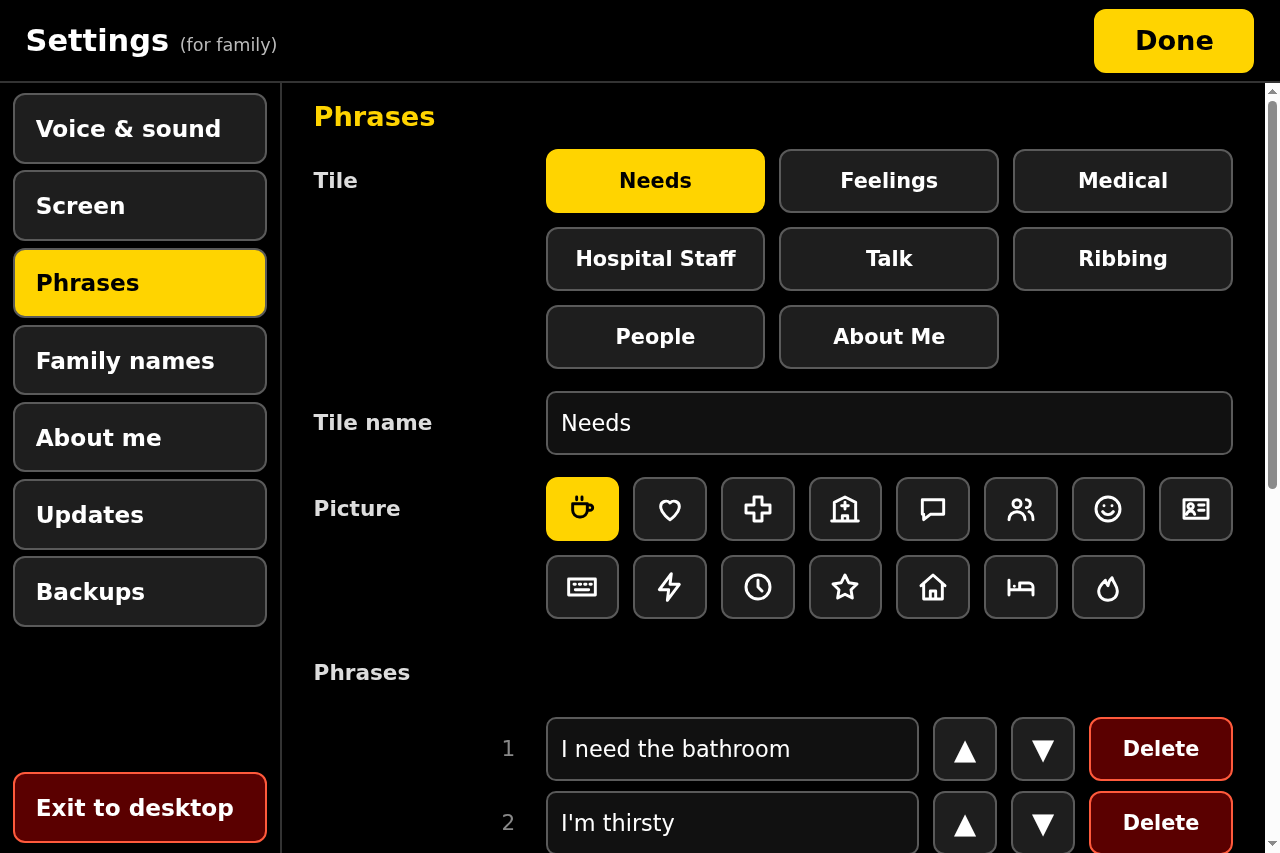
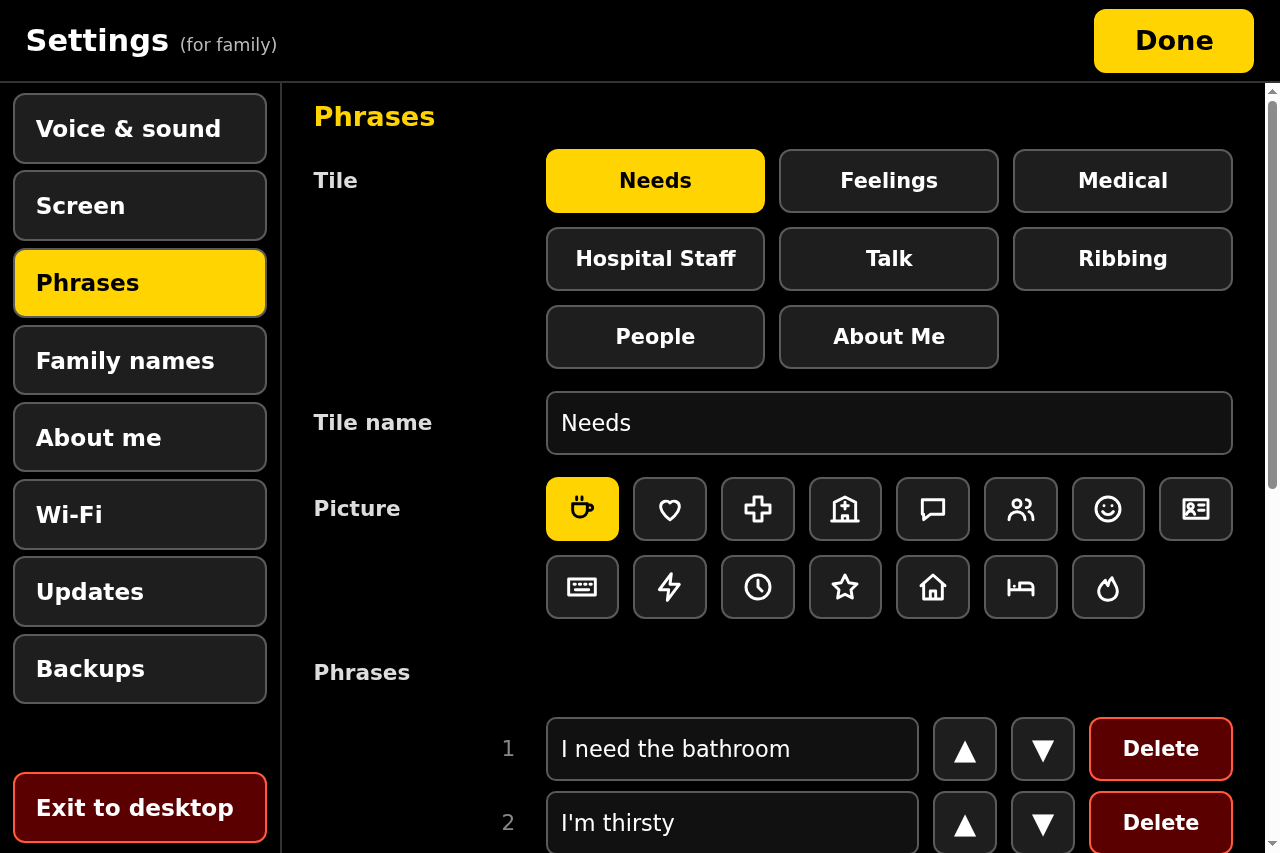
Wi-Fi in Settings: list networks (nmcli, one row per name, connected first), tap Connect, type the password on the settings keyboard (typed exactly, Shift key for capitals only in that box), plain-word errors; GET /wifi, POST /wifi/connect (local-only, ssid/password checked); tests with a fake nmcli

Changed region(s): [[0.0, 0.7315, 0.2188, 0.823], [0.0312, 0.5791, 0.125, 0.6401], [0.0312, 0.6706, 0.125, 0.7011]]

diff --git a/static/app.js b/static/app.js
@@ -10,6 +10,7 @@ let shown = "";           // the screen drawn last (to keep a list's scroll plac
 let painLevel = null;
 let kbMode = "abc";
 let skMode = "abc";
+let skShift = false;  // Shift on the settings keyboard, only shown for a Wi-Fi password
 let dict = [];              // starter words, most common first
 let dictRank = new Map();
 let audio = null;
@@ -258,12 +259,15 @@ const LAYOUTS = {
   abc: ["qwertyuiop", "asdfghjkl'", "zxcvbnm,"],
   "123": ["1234567890", "-/:;()$&@\"", "!#%+=*?_"],
 };
-function renderKeyboard(box, mode, onKey, onMode, withSpeak) {
+// shift: null, or { on, toggle } for a box where case matters (a Wi-Fi password)
+function renderKeyboard(box, mode, onKey, onMode, withSpeak, shift = null) {
   box.innerHTML = "";
   for (const row of LAYOUTS[mode]) {
     const r = document.createElement("div");
     r.className = "krow";
-    for (const ch of row) r.appendChild(key(ch, ch.toUpperCase(), onKey));
+    if (shift && mode === "abc" && row === LAYOUTS.abc[2]) r.appendChild(key(null, "⇧", shift.toggle, "wide" + (shift.on ? " on" : "")));
+    const up = shift && shift.on, low = shift && !shift.on; // no shift: keys show capitals, type small
+    for (const ch of row) r.appendChild(key(up ? ch.toUpperCase() : ch, low ? ch : ch.toUpperCase(), onKey));
     if (row === LAYOUTS[mode][2]) r.appendChild(key("BS", "⌫", onKey, "wide"));
     box.appendChild(r);
   }
@@ -537,7 +541,7 @@ function textInput(value, onInput, placeholder = "") {
   const i = el("input", { type: "text", inputmode: "none", placeholder });
   i.value = value;
   i.oninput = () => onInput(i.value);
-  i.onfocus = () => { settingsTarget = i; showSKeys(true); setTimeout(() => i.scrollIntoView({ block: "nearest" }), 50); };
+  i.onfocus = () => { settingsTarget = i; renderSKeys(); showSKeys(true); setTimeout(() => i.scrollIntoView({ block: "nearest" }), 50); };
   i.onblur = () => setTimeout(() => { if (!(document.activeElement && document.activeElement.matches("#sbody input[type=text]"))) showSKeys(false); }, 100);
   return i;
 }
@@ -547,7 +551,7 @@ function slug(name) { return name.toLowerCase().replace(/[^a-z0-9]+/g, "-") + "-
 // nerves): every button is 64 px high and one of three widths, every row has its label in the same
 // column and its controls starting at the same x, help text is always one muted line under its row.
 const TABS = [["voice", "Voice & sound"], ["screen", "Screen"], ["phrases", "Phrases"], ["family", "Family names"],
-  ["about", "About me"], ["updates", "Updates"], ["backups", "Backups"]];
+  ["about", "About me"], ["wifi", "Wi-Fi"], ["updates", "Updates"], ["backups", "Backups"]];
 let settingsTab = "voice";
 // a button of a fixed size: "s" square 64, "m" 200, "l" 300, "fill" = its grid cell
 function sbtn(text, onclick, size = "m", cls = "") {
@@ -655,6 +659,57 @@ const SECTIONS = {
     if (!about) { body.append(srow("", [], "The About Me tile was deleted. Add a tile under Phrases.")); return; }
     phraseEditor(body, about, "line", "Things he can say about himself (the About Me tile): his name, birthday, address.");
   },
+  wifi(body) {
+    const stat = el("div", { class: "shelp", text: "Looking for networks..." });
+    const list = el("div");
+    const look = sbtn("Look again", () => load(), "l");
+    const r = srow("Wi-Fi", [look]);
+    r.append(stat);
+    body.append(r, list);
+    const words = (n) => (n.signal >= 67 ? "Strong" : n.signal >= 40 ? "Good" : "Weak") + (n.secure ? ", locked" : ", open");
+    async function connect(n, password, row) {
+      stat.textContent = "Connecting to " + n.ssid + "...";
+      row.querySelectorAll("button").forEach((b) => (b.disabled = true));
+      try {
+        const res = await fetch("/wifi/connect", { method: "POST", headers: { "Content-Type": "application/json" }, body: JSON.stringify({ ssid: n.ssid, password }) });
+        const j = await res.json().catch(() => ({}));
+        if (!res.ok) throw new Error(j.error || "It did not connect.");
+        toast("Connected to " + n.ssid);
+        load();
+      } catch (e) {
+        stat.textContent = e.message;
+        row.querySelectorAll("button").forEach((b) => (b.disabled = false));
+      }
+    }
+    function pick(n, row) {
+      list.querySelectorAll(".wpass").forEach((x) => x.remove());
+      if (!n.secure) return connect(n, "", row);
+      let pw = "";
+      const i = textInput("", (v) => (pw = v), "Password");
+      i.dataset.raw = "1";
+      i.autocomplete = "off";
+      const p = srow("Password", [i, sbtn("Connect", () => connect(n, pw, p), "m", "speak")],
+        "Type it exactly: ⇧ makes capitals, 123 has numbers. Leave it empty if this network was used here before.");
+      p.classList.add("wpass");
+      row.after(p);
+      i.focus();
+    }
+    async function load() {
+      stat.textContent = "Looking for networks...";
+      list.innerHTML = "";
+      let j;
+      try { j = await (await fetch("/wifi")).json(); } catch (e) { j = { error: "VoiceBox could not ask for networks." }; }
+      if (j.error) { stat.textContent = j.error; return; }
+      const on = j.networks.find((n) => n.active);
+      stat.textContent = on ? "Connected to " + on.ssid + "." : j.networks.length ? "Not connected. Tap a network." : "No networks found. Tap Look again.";
+      for (const n of j.networks) {
+        const row = srow(n.ssid, [el("span", { class: "sval", text: words(n) })]);
+        row.querySelector(".ctl").append(n.active ? el("span", { class: "sval", text: "Connected" }) : sbtn("Connect", () => pick(n, row), "m"));
+        list.append(row);
+      }
+    }
+    load();
+  },
   updates(body) {
     const ver = el("span", { class: "sval", text: "..." }), when = el("span", { class: "sval", text: "..." });
     fetch("/version").then((r) => r.json()).then((v) => {
@@ -748,13 +803,15 @@ function phraseEditor(body, cat, what, help) {
   }, "fill", "speak"))));
 }
 function renderSKeys() {
+  const raw = settingsTarget && settingsTarget.dataset.raw; // typed exactly as keyed, with a Shift key
   renderKeyboard($("#skeys"), skMode, (k) => {
     const i = settingsTarget;
     if (!i || !document.body.contains(i)) { toast("Tap a box first"); return; }
     if (k === "BS") i.value = i.value.slice(0, -1);
+    else if (raw) i.value += k;
     else i.value += /(^|[.?!] )$/.test(i.value) ? k.toUpperCase() : k; // names and phrases start with a capital
     i.dispatchEvent(new Event("input"));
-  }, (m) => { skMode = m; renderSKeys(); });
+  }, (m) => { skMode = m; renderSKeys(); }, false, raw ? { on: skShift, toggle: () => { skShift = !skShift; renderSKeys(); } } : null);
   // keep focus on the input so the on-screen keys don't steal it
   $("#skeys").onpointerdown = (e) => e.preventDefault();
 }

diff --git a/tests/ui_test.js b/tests/ui_test.js
@@ -209,7 +209,7 @@ const SHOTS = path.join(__dirname, "..", "screenshots");
     await page.waitForSelector('#sbody button.on.voice:has(span:text-is("Ryan"))'); // friendly voice names, Ryan until the family picks
     // one section at a time, tabs on the left, Done always there, the keyboard only while typing
     const tabs = await page.$$eval("#snav button", (b) => b.map((x) => x.textContent));
-    assert.deepStrictEqual(tabs, ["Voice & sound", "Screen", "Phrases", "Family names", "About me", "Updates", "Backups", "Exit to desktop"]);
+    assert.deepStrictEqual(tabs, ["Voice & sound", "Screen", "Phrases", "Family names", "About me", "Wi-Fi", "Updates", "Backups", "Exit to desktop"]);
     assert(await page.isHidden("#skeys"), "keyboard shown with no text box in use");
     const sfits = async (where) => {
       const bad = await page.evaluate(() => [...document.querySelectorAll("#settings button")].filter((e) => {
@@ -242,6 +242,12 @@ const SHOTS = path.join(__dirname, "..", "screenshots");
     await tab("Phrases", "c");
     await tab("Family names", "d");
     await tab("About me", "e");
+    // Wi-Fi (nmcli answers faked; the server side is in test_server.py)
+    await page.route("**/wifi", (r) => r.fulfill({ status: 200, contentType: "application/json", body: JSON.stringify({ networks: [
+      { ssid: "Home Net", signal: 72, secure: true, active: true },
+      { ssid: "Neighbors 5G", signal: 35, secure: true, active: false },
+      { ssid: "Cafe", signal: 90, secure: false, active: false }] }) }));
+    await tab("Wi-Fi", "ew");
     await tab("Updates", "f");
     await tab("Backups", "g");
     await tab("Exit to desktop", "h");
@@ -256,6 +262,28 @@ const SHOTS = path.join(__dirname, "..", "screenshots");
     await page.click("#sbody button.install");
     await page.waitForFunction(() => document.querySelector("#ustat").textContent.includes("Nothing was changed"));
     await page.unroute("**/update/check"); await page.unroute("**/update/install");
+    // Wi-Fi password: typed exactly (no automatic capital), Shift for capitals, a plain failure message
+    let sent = null;
+    await page.route("**/wifi/connect", (r) => { sent = r.request().postDataJSON(); return fake(502, { error: "Wrong password, or this network needs one." })(r); });
+    await page.click('#snav button:text-is("Wi-Fi")');
+    await page.click('#sbody .srow:has(.slabel:text-is("Neighbors 5G")) button:text-is("Connect")');
+    await page.waitForSelector("#skeys:not([hidden])");
+    await page.click('#skeys button:text-is("a")');
+    await page.click('#skeys button:text-is("⇧")');
+    await page.click('#skeys button:text-is("B")');
+    await page.click('#skeys button:text-is("123")');
+    await page.click('#skeys button:text-is("1")');
+    await page.click('#skeys button:text-is("ABC")');
+    assert.strictEqual(await page.inputValue('#sbody input[placeholder="Password"]'), "aB1");
+    await sfits("Wi-Fi password");
+    await shot("9ex-settings-wifi-password");
+    await page.click('#sbody .wpass button:text-is("Connect")');
+    await page.waitForFunction(() => document.querySelector("#sbody .shelp").textContent.includes("Wrong password"));
+    assert.deepStrictEqual(sent, { ssid: "Neighbors 5G", password: "aB1" });
+    await page.click('#snav button:text-is("Family names")'); // the Shift key is only for the password
+    await page.click('#sbody input[placeholder="Type a name"]');
+    assert.strictEqual(await page.locator('#skeys button:text-is("⇧")').count(), 0);
+    await page.unroute("**/wifi"); await page.unroute("**/wifi/connect");
     const name = w === 1280 ? "Mike" : "Anna";
     await page.click('#snav button:text-is("Family names")');
     await page.click('#sbody input[placeholder="Type a name"]');

diff --git a/static/style.css b/static/style.css
@@ -134,6 +134,7 @@ svg.icon { width: 1em; height: 1em; fill: none; stroke: currentColor; stroke-wid
 #skeys { flex: 0 0 34vh; height: 34vh; padding: var(--gap); border-top: 3px solid var(--accent); }
 #skeys[hidden] { display: none; }
 #skeys button { font-size: 1.6rem; }
+#skeys button.on { background: var(--accent); color: #000; border-color: var(--accent); }
 #sbody h2 { color: var(--accent); margin: 0.2em 0 0.6em; font-size: 1.7rem; }
 /* the right side is ONE grid: label column 13rem, controls from the same x, everything 64 px high */
 #sbody { --h: 64px; --gapx: 14px; }

diff --git a/server.py b/server.py
@@ -689,6 +689,81 @@ def battery():
     return {}
 
 
+# ---------- Wi-Fi (NetworkManager's nmcli; a local desktop user may change Wi-Fi without sudo) ----------
+NMCLI = os.environ.get("VOICEBOX_NMCLI", "nmcli")
+
+
+def nmcli(args, timeout):
+    """(ok, output) of nmcli; ok False with a plain reason when it is missing or hangs."""
+    try:
+        r = subprocess.run([NMCLI] + args, capture_output=True, text=True, timeout=timeout)
+    except FileNotFoundError:
+        return False, "This computer has no Wi-Fi manager (nmcli)."
+    except subprocess.TimeoutExpired:
+        return False, "Wi-Fi did not answer in time. Try again."
+    return r.returncode == 0, (r.stdout if r.returncode == 0 else (r.stderr or r.stdout)).strip()
+
+
+def split_terse(line):
+    """nmcli -t fields: ':' separates, '\\:' and '\\\\' are escaped."""
+    out, cur, esc = [], "", False
+    for ch in line:
+        if esc:
+            cur += ch
+            esc = False
+        elif ch == "\\":
+            esc = True
+        elif ch == ":":
+            out.append(cur)
+            cur = ""
+        else:
+            cur += ch
+    return out + [cur]
+
+
+def wifi_list():
+    ok, out = nmcli(["-t", "-f", "IN-USE,SSID,SIGNAL,SECURITY", "device", "wifi", "list", "--rescan", "auto"], 30)
+    if not ok:
+        return {"error": out or "Wi-Fi is not available."}
+    nets = {}
+    for line in out.splitlines():
+        f = split_terse(line)
+        if len(f) != 4 or not f[1]:
+            continue  # hidden networks have no name to show
+        try:
+            signal = int(f[2])
+        except ValueError:
+            signal = 0
+        n = {"ssid": f[1], "signal": signal, "secure": f[3] not in ("", "--"), "active": f[0].strip() == "*"}
+        old = nets.get(n["ssid"])  # one row per name: keep the connected or the strongest access point
+        if not old or (n["active"], n["signal"]) > (old["active"], old["signal"]):
+            nets[n["ssid"]] = n
+    return {"networks": sorted(nets.values(), key=lambda n: (not n["active"], -n["signal"], n["ssid"].lower()))}
+
+
+def wifi_connect(ssid, password):
+    if not isinstance(ssid, str) or not 0 < len(ssid.encode()) <= 32 or "\0" in ssid:
+        return {"error": "Pick a network first."}, 400
+    if not isinstance(password, str) or "\0" in password or (password and not 8 <= len(password) <= 63):
+        return {"error": "A Wi-Fi password is 8 to 63 characters."}, 400
+    # Without a password nmcli reuses a network saved earlier. The password is an argument for a moment
+    # (seen only by local processes on his own tablet); nmcli then keeps it in NetworkManager's store.
+    ok, out = nmcli(["device", "wifi", "connect", ssid] + (["password", password] if password else []), 60)
+    if ok:
+        return {"ok": True}, 200
+    sys.stderr.write("wifi connect failed: %s\n" % out)
+    low = out.lower()
+    if "not authorized" in low or "insufficient privileges" in low:
+        why = "This user is not allowed to change Wi-Fi. Ask Joe."
+    elif "secrets were required" in low or "802-11-wireless-security.psk" in low or "password" in low:
+        why = "Wrong password, or this network needs one."
+    elif "no network with ssid" in low:
+        why = "That network is out of range now."
+    else:
+        why = out.splitlines()[-1] if out else "It did not connect."
+    return {"error": why}, 502
+
+
 def kill_browser():
     for args in (["pkill", "-f", "voicebox-profile"], ["flatpak", "kill", "org.chromium.Chromium"]):
         try:
@@ -1231,6 +1306,8 @@ class Handler(SimpleHTTPRequestHandler):
             return self.send_json({"dark": os.path.exists(DARK_FLAG)})
         if self.path == "/battery":
             return self.send_json(battery())
+        if self.path == "/wifi":
+            return self.send_json(wifi_list())
         if self.path == "/prepare":
             return self.send_json(dict(prep))
         if self.path == "/version":
@@ -1316,6 +1393,8 @@ class Handler(SimpleHTTPRequestHandler):
             return self.send_json({"ok": True})
         if self.path == "/healthy":  # the page finished starting
             return self.send_json({"ok": True, "cleared": mark_healthy()})
+        if self.path == "/wifi/connect":
+            return self.send_json(*wifi_connect(req.get("ssid"), req.get("password") or ""))
         if self.path in ("/update/check", "/update/install", "/update/undo"):
             return self.send_json(*run_update(self.path))
         if self.path == "/ai":

diff --git a/tests/test_server.py b/tests/test_server.py
@@ -768,6 +768,38 @@ class WorkerTest(Base):
         self.assertEqual(self.req("/dark/clear", {})[0], 200)
         self.assertEqual(self.req("/dark")[1], {"dark": False})
 
+    def test_wifi(self):
+        fake = os.path.join(self.home, "nmcli")
+        args = os.path.join(self.home, "nmcli-args")
+        pathlib.Path(fake).write_text(r'''#!/bin/sh
+printf '%s\n' "$@" > "$0-args"
+if [ "$3" = "connect" ]; then
+  [ "$5" = "password" ] && [ "$6" != "Right-Pass1" ] && { echo "Error: Secrets were required, but not provided." >&2; exit 4; }
+  exit 0
+fi
+printf '%s\n' ' :Home\:Net:40:WPA2' '*:Home\:Net:72:WPA2' ' :Cafe:90:' ' ::55:WPA2' ' :Home\:Net:30:WPA2'
+''')
+        os.chmod(fake, 0o755)
+        self.extra_env = {"VOICEBOX_NMCLI": fake}
+        self.start()
+        self.assertEqual(self.req("/wifi")[1], {"networks": [
+            {"ssid": "Home:Net", "signal": 72, "secure": True, "active": True},  # escaped ':' kept, one row per name
+            {"ssid": "Cafe", "signal": 90, "secure": False, "active": False}]})  # hidden network left out
+        code, j = self.req("/wifi/connect", {"ssid": "Cafe"})
+        self.assertEqual(code, 200)
+        self.assertEqual(pathlib.Path(args).read_text().split("\n")[:4], ["device", "wifi", "connect", "Cafe"])
+        code, j = self.req("/wifi/connect", {"ssid": "Home:Net", "password": "wrong-pass"})
+        self.assertEqual(code, 502)
+        self.assertIn("Wrong password", json.loads(j)["error"])
+        self.assertEqual(self.req("/wifi/connect", {"ssid": "Home:Net", "password": "Right-Pass1"})[0], 200)
+        self.assertEqual(self.req("/wifi/connect", {"ssid": "Home:Net", "password": "short"})[0], 400)
+        self.assertEqual(self.req("/wifi/connect", {"ssid": ""})[0], 400)
+        self.assertEqual(self.req("/wifi/connect", {"ssid": "Cafe"}, {"Origin": "http://evil.example"})[0], 403)
+        self.stop()
+        self.extra_env = {"VOICEBOX_NMCLI": os.path.join(self.home, "missing")}
+        self.start()
+        self.assertIn("no Wi-Fi manager", self.req("/wifi")[1]["error"])
+
     def test_battery(self):
         power = os.path.join(self.home, "power")
         os.makedirs(os.path.join(power, "AC"))
